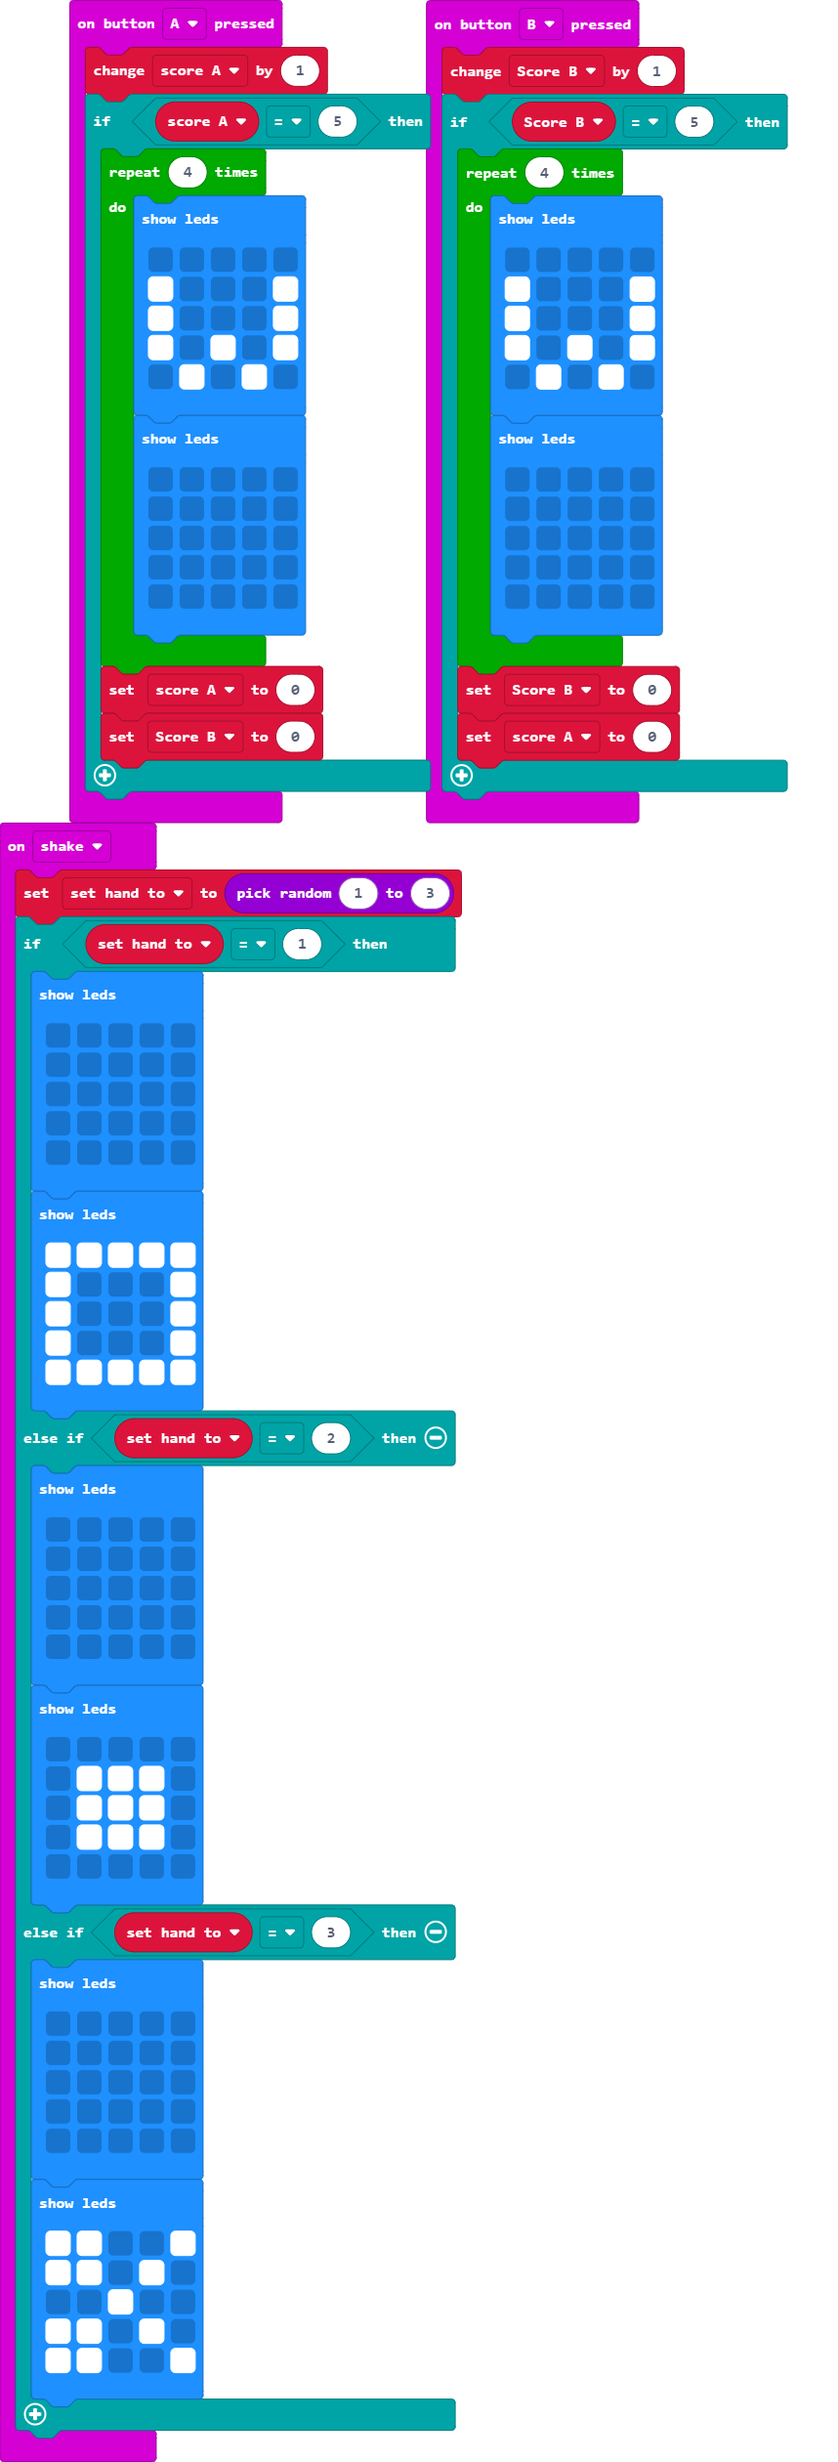
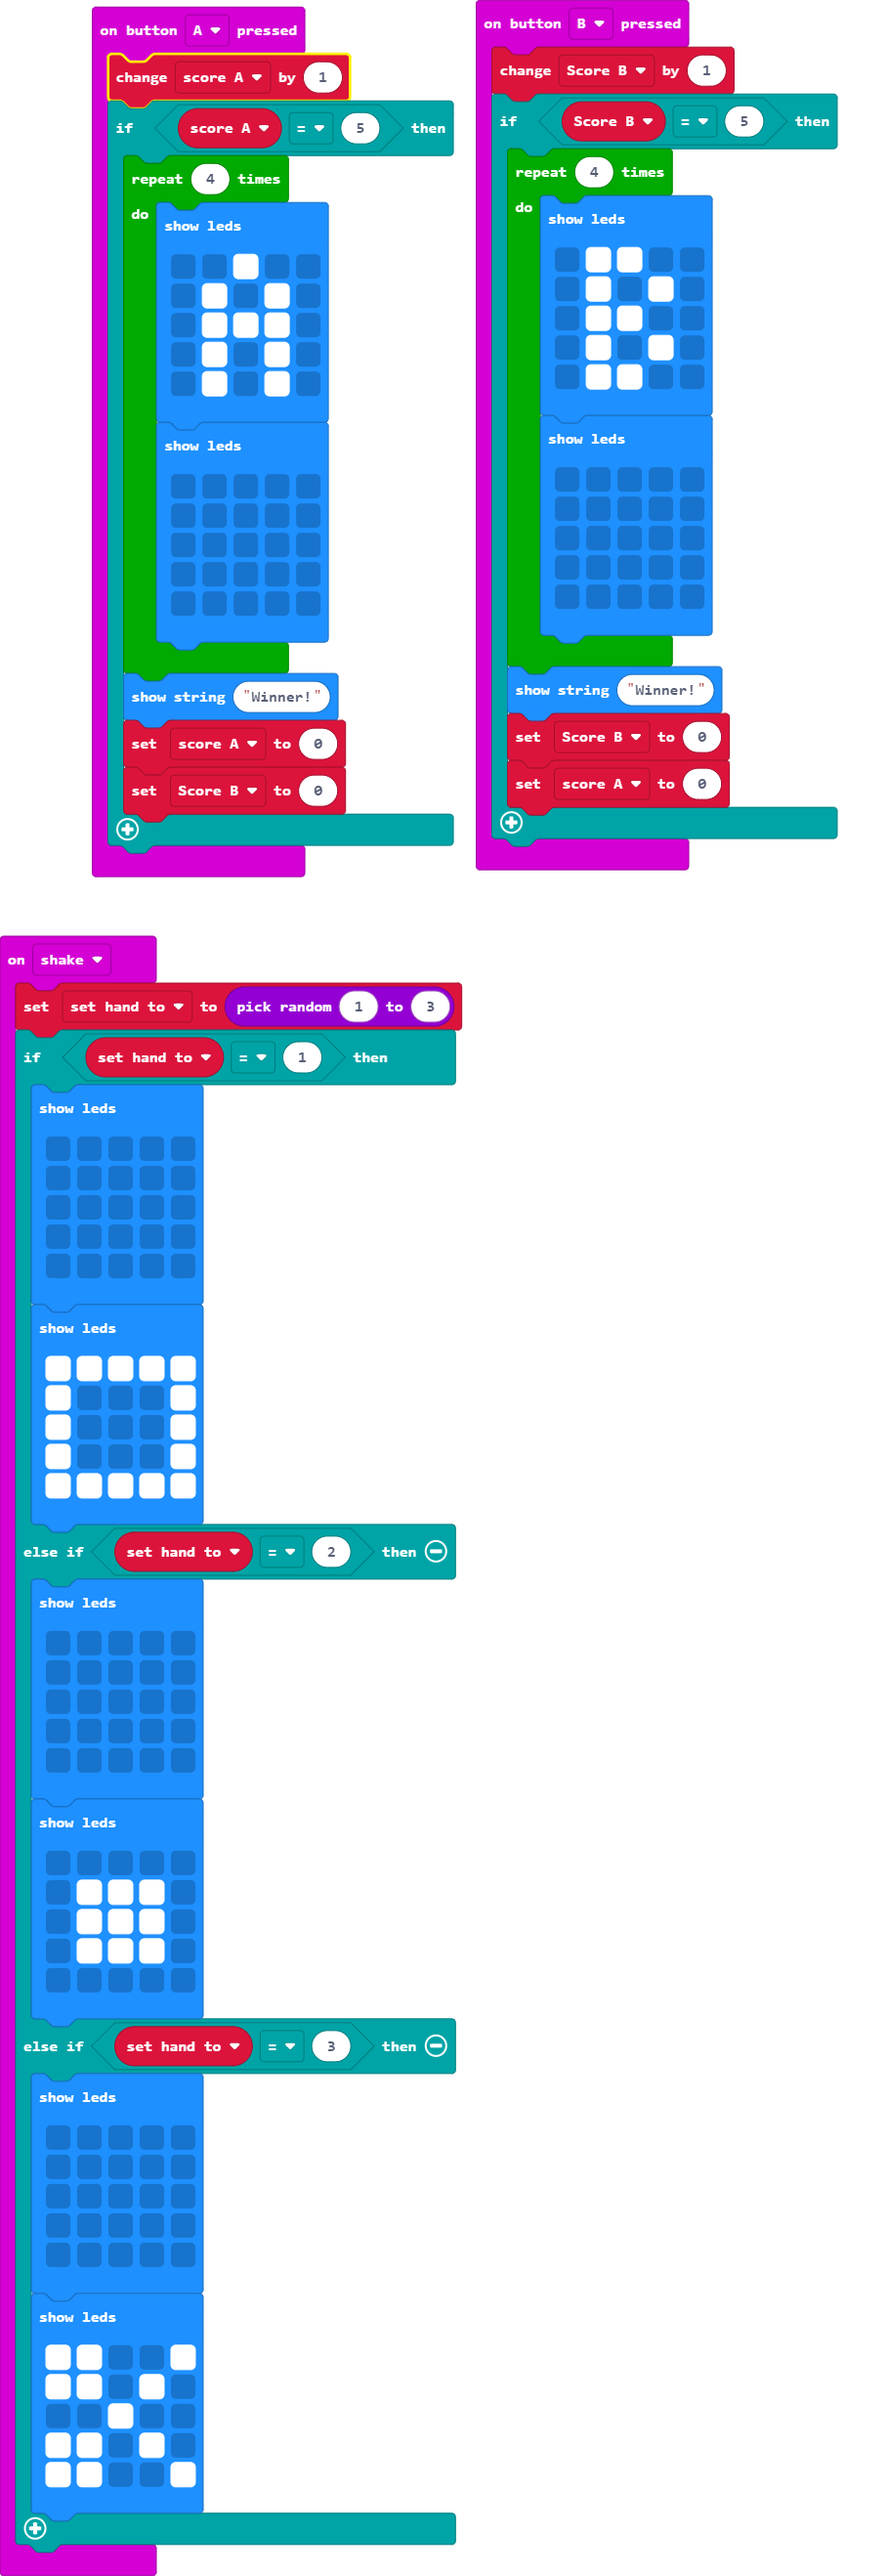
Update main.blocks, main.ts

Changed region(s): [[0.0, 0.0, 0.9697, 1.0]]

diff --git a/main.ts b/main.ts
@@ -6,10 +6,10 @@ input.onButtonPressed(Button.A, function () {
     if (score_A == 5) {
         for (let index = 0; index < 4; index++) {
             basic.showLeds(`
-                . . . . .
-                # . . . #
-                # . . . #
-                # . # . #
+                . . # . .
+                . # . # .
+                . # # # .
+                . # . # .
                 . # . # .
                 `)
             basic.showLeds(`
@@ -20,6 +20,7 @@ input.onButtonPressed(Button.A, function () {
                 . . . . .
                 `)
         }
+        basic.showString("Winner!")
         score_A = 0
         Score_B = 0
     }
@@ -29,11 +30,11 @@ input.onButtonPressed(Button.B, function () {
     if (Score_B == 5) {
         for (let index = 0; index < 4; index++) {
             basic.showLeds(`
-                . . . . .
-                # . . . #
-                # . . . #
-                # . # . #
+                . # # . .
                 . # . # .
+                . # # . .
+                . # . # .
+                . # # . .
                 `)
             basic.showLeds(`
                 . . . . .
@@ -43,6 +44,7 @@ input.onButtonPressed(Button.B, function () {
                 . . . . .
                 `)
         }
+        basic.showString("Winner!")
         Score_B = 0
         score_A = 0
     }
